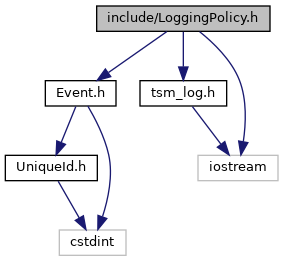
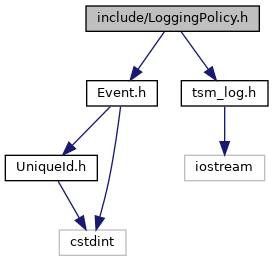
Deploy tinverse/tsm to github.com/tinverse/tsm.git:gh-pages

diff --git a/LoggingPolicy_8h_source.html b/LoggingPolicy_8h_source.html
@@ -73,57 +73,49 @@ $(function() {
 <a href="LoggingPolicy_8h.html">Go to the documentation of this file.</a><div class="fragment"><div class="line"><a name="l00001"></a><span class="lineno">    1</span>&#160;<span class="preprocessor">#include &quot;<a class="code" href="Event_8h.html">Event.h</a>&quot;</span></div>
 <div class="line"><a name="l00002"></a><span class="lineno">    2</span>&#160;<span class="preprocessor">#include &quot;<a class="code" href="tsm__log_8h.html">tsm_log.h</a>&quot;</span></div>
 <div class="line"><a name="l00003"></a><span class="lineno">    3</span>&#160; </div>
-<div class="line"><a name="l00004"></a><span class="lineno">    4</span>&#160;<span class="preprocessor">#include &lt;iostream&gt;</span></div>
-<div class="line"><a name="l00005"></a><span class="lineno">    5</span>&#160; </div>
-<div class="line"><a name="l00006"></a><span class="lineno">    6</span>&#160;<span class="keyword">namespace </span><a class="code" href="namespacetsm.html">tsm</a> {</div>
-<div class="line"><a name="l00014"></a><span class="lineno">   14</span>&#160; </div>
-<div class="line"><a name="l00015"></a><span class="lineno">   15</span>&#160;<span class="keyword">template</span>&lt;<span class="keyword">typename</span> StateType&gt;</div>
-<div class="line"><a name="l00016"></a><span class="lineno"><a class="line" href="structtsm_1_1LoggingPolicy.html">   16</a></span>&#160;<span class="keyword">struct </span><a class="code" href="structtsm_1_1LoggingPolicy.html">LoggingPolicy</a> : <span class="keyword">public</span> StateType</div>
-<div class="line"><a name="l00017"></a><span class="lineno">   17</span>&#160;{</div>
-<div class="line"><a name="l00018"></a><span class="lineno"><a class="line" href="structtsm_1_1LoggingPolicy.html#a77e605955bf90f8b9e7e7274e5062242">   18</a></span>&#160;    <span class="keywordtype">void</span> <a class="code" href="structtsm_1_1LoggingPolicy.html#a77e605955bf90f8b9e7e7274e5062242">onEntry</a>(<a class="code" href="structtsm_1_1Event.html">Event</a> <span class="keyword">const</span>&amp; e)<span class="keyword"> override</span></div>
-<div class="line"><a name="l00019"></a><span class="lineno">   19</span>&#160;<span class="keyword">    </span>{</div>
-<div class="line"><a name="l00020"></a><span class="lineno">   20</span>&#160;        <span class="keywordflow">if</span> (StateType::getCurrentState()) {</div>
-<div class="line"><a name="l00021"></a><span class="lineno">   21</span>&#160;            <a class="code" href="tsm__log_8h.html#a409b6edd4e93d758a7241a089c1786c4">LOG</a>(<a class="code" href="tsm__log_8h.html#aca1fd1d8935433e6ba2e3918214e07f9a748005382152808a72b1a9177d9dc806">INFO</a>) &lt;&lt; <span class="stringliteral">&quot;Entering State:&quot;</span> &lt;&lt; StateType::getCurrentState()-&gt;id</div>
-<div class="line"><a name="l00022"></a><span class="lineno">   22</span>&#160;                      &lt;&lt; <span class="stringliteral">&quot; on&quot;</span></div>
-<div class="line"><a name="l00023"></a><span class="lineno">   23</span>&#160;                         <span class="stringliteral">&quot; Event:&quot;</span></div>
-<div class="line"><a name="l00024"></a><span class="lineno">   24</span>&#160;                      &lt;&lt; e.<a class="code" href="structtsm_1_1Event.html#ac5eb92b825e4c068ffb2afaf57c67682">id</a>;</div>
-<div class="line"><a name="l00025"></a><span class="lineno">   25</span>&#160;        } <span class="keywordflow">else</span> {</div>
-<div class="line"><a name="l00026"></a><span class="lineno">   26</span>&#160;            <a class="code" href="tsm__log_8h.html#a409b6edd4e93d758a7241a089c1786c4">LOG</a>(<a class="code" href="tsm__log_8h.html#aca1fd1d8935433e6ba2e3918214e07f9a748005382152808a72b1a9177d9dc806">INFO</a>) &lt;&lt; <span class="stringliteral">&quot;Entering State:&quot;</span> &lt;&lt; StateType::getStartState()-&gt;id</div>
-<div class="line"><a name="l00027"></a><span class="lineno">   27</span>&#160;                      &lt;&lt; <span class="stringliteral">&quot; on&quot;</span></div>
-<div class="line"><a name="l00028"></a><span class="lineno">   28</span>&#160;                         <span class="stringliteral">&quot; Event:&quot;</span></div>
-<div class="line"><a name="l00029"></a><span class="lineno">   29</span>&#160;                      &lt;&lt; e.<a class="code" href="structtsm_1_1Event.html#ac5eb92b825e4c068ffb2afaf57c67682">id</a>;</div>
-<div class="line"><a name="l00030"></a><span class="lineno">   30</span>&#160;        }</div>
-<div class="line"><a name="l00031"></a><span class="lineno">   31</span>&#160;        StateType::onEntry(e);</div>
-<div class="line"><a name="l00032"></a><span class="lineno">   32</span>&#160;    }</div>
-<div class="line"><a name="l00033"></a><span class="lineno">   33</span>&#160; </div>
-<div class="line"><a name="l00034"></a><span class="lineno"><a class="line" href="structtsm_1_1LoggingPolicy.html#aeaac5fcfe2f0f9b83ad25930b48bcab9">   34</a></span>&#160;    <span class="keywordtype">void</span> <a class="code" href="structtsm_1_1LoggingPolicy.html#aeaac5fcfe2f0f9b83ad25930b48bcab9">handle</a>(<a class="code" href="structtsm_1_1Event.html">Event</a> <span class="keyword">const</span>&amp; nextEvent)<span class="keyword"> override</span></div>
-<div class="line"><a name="l00035"></a><span class="lineno">   35</span>&#160;<span class="keyword">    </span>{</div>
-<div class="line"><a name="l00036"></a><span class="lineno">   36</span>&#160;        <a class="code" href="tsm__log_8h.html#a409b6edd4e93d758a7241a089c1786c4">LOG</a>(<a class="code" href="tsm__log_8h.html#aca1fd1d8935433e6ba2e3918214e07f9a748005382152808a72b1a9177d9dc806">INFO</a>) &lt;&lt; <span class="stringliteral">&quot;Attempting transition from State: &quot;</span></div>
-<div class="line"><a name="l00037"></a><span class="lineno">   37</span>&#160;                  &lt;&lt; StateType::getCurrentState()-&gt;id</div>
-<div class="line"><a name="l00038"></a><span class="lineno">   38</span>&#160;                  &lt;&lt; <span class="stringliteral">&quot; on Event:&quot;</span> &lt;&lt; nextEvent.<a class="code" href="structtsm_1_1Event.html#ac5eb92b825e4c068ffb2afaf57c67682">id</a>;</div>
-<div class="line"><a name="l00039"></a><span class="lineno">   39</span>&#160;        StateType::handle(nextEvent);</div>
-<div class="line"><a name="l00040"></a><span class="lineno">   40</span>&#160;    }</div>
-<div class="line"><a name="l00041"></a><span class="lineno">   41</span>&#160; </div>
-<div class="line"><a name="l00042"></a><span class="lineno"><a class="line" href="structtsm_1_1LoggingPolicy.html#a927c8650c839080cad5babda9574ef04">   42</a></span>&#160;    <span class="keywordtype">void</span> <a class="code" href="structtsm_1_1LoggingPolicy.html#a927c8650c839080cad5babda9574ef04">onExit</a>(<a class="code" href="structtsm_1_1Event.html">Event</a> <span class="keyword">const</span>&amp; e)<span class="keyword"> override</span></div>
-<div class="line"><a name="l00043"></a><span class="lineno">   43</span>&#160;<span class="keyword">    </span>{</div>
-<div class="line"><a name="l00044"></a><span class="lineno">   44</span>&#160;        <a class="code" href="tsm__log_8h.html#a409b6edd4e93d758a7241a089c1786c4">LOG</a>(<a class="code" href="tsm__log_8h.html#aca1fd1d8935433e6ba2e3918214e07f9a748005382152808a72b1a9177d9dc806">INFO</a>) &lt;&lt; <span class="stringliteral">&quot;Exiting State:&quot;</span> &lt;&lt; StateType::getCurrentState()-&gt;id</div>
-<div class="line"><a name="l00045"></a><span class="lineno">   45</span>&#160;                  &lt;&lt; <span class="stringliteral">&quot; on&quot;</span></div>
-<div class="line"><a name="l00046"></a><span class="lineno">   46</span>&#160;                     <span class="stringliteral">&quot; Event:&quot;</span></div>
-<div class="line"><a name="l00047"></a><span class="lineno">   47</span>&#160;                  &lt;&lt; e.<a class="code" href="structtsm_1_1Event.html#ac5eb92b825e4c068ffb2afaf57c67682">id</a>;</div>
-<div class="line"><a name="l00048"></a><span class="lineno">   48</span>&#160;        StateType::onExit(e);</div>
-<div class="line"><a name="l00049"></a><span class="lineno">   49</span>&#160;    }</div>
-<div class="line"><a name="l00050"></a><span class="lineno">   50</span>&#160;};</div>
-<div class="line"><a name="l00051"></a><span class="lineno">   51</span>&#160;} <span class="comment">// namespace tsm</span></div>
+<div class="line"><a name="l00004"></a><span class="lineno">    4</span>&#160;<span class="keyword">namespace </span><a class="code" href="namespacetsm.html">tsm</a> {</div>
+<div class="line"><a name="l00012"></a><span class="lineno">   12</span>&#160; </div>
+<div class="line"><a name="l00013"></a><span class="lineno">   13</span>&#160;<span class="keyword">template</span>&lt;<span class="keyword">typename</span> StateType&gt;</div>
+<div class="line"><a name="l00014"></a><span class="lineno"><a class="line" href="structtsm_1_1LoggingPolicy.html">   14</a></span>&#160;<span class="keyword">struct </span><a class="code" href="structtsm_1_1LoggingPolicy.html">LoggingPolicy</a> : <span class="keyword">public</span> StateType</div>
+<div class="line"><a name="l00015"></a><span class="lineno">   15</span>&#160;{</div>
+<div class="line"><a name="l00016"></a><span class="lineno"><a class="line" href="structtsm_1_1LoggingPolicy.html#a77e605955bf90f8b9e7e7274e5062242">   16</a></span>&#160;    <span class="keywordtype">void</span> <a class="code" href="structtsm_1_1LoggingPolicy.html#a77e605955bf90f8b9e7e7274e5062242">onEntry</a>(<a class="code" href="structtsm_1_1Event.html">Event</a> <span class="keyword">const</span>&amp; e)<span class="keyword"> override</span></div>
+<div class="line"><a name="l00017"></a><span class="lineno">   17</span>&#160;<span class="keyword">    </span>{</div>
+<div class="line"><a name="l00018"></a><span class="lineno">   18</span>&#160;        <span class="keywordflow">if</span> (StateType::getCurrentState()) {</div>
+<div class="line"><a name="l00019"></a><span class="lineno">   19</span>&#160;            <a class="code" href="tsm__log_8h.html#a409b6edd4e93d758a7241a089c1786c4">LOG</a>(<a class="code" href="tsm__log_8h.html#aca1fd1d8935433e6ba2e3918214e07f9a748005382152808a72b1a9177d9dc806">INFO</a>) &lt;&lt; <span class="stringliteral">&quot;Entering State:&quot;</span> &lt;&lt; StateType::getCurrentState()-&gt;id</div>
+<div class="line"><a name="l00020"></a><span class="lineno">   20</span>&#160;                      &lt;&lt; <span class="stringliteral">&quot; on Event:&quot;</span> &lt;&lt; e.<a class="code" href="structtsm_1_1Event.html#ac5eb92b825e4c068ffb2afaf57c67682">id</a>;</div>
+<div class="line"><a name="l00021"></a><span class="lineno">   21</span>&#160;        } <span class="keywordflow">else</span> {</div>
+<div class="line"><a name="l00022"></a><span class="lineno">   22</span>&#160;            <a class="code" href="tsm__log_8h.html#a409b6edd4e93d758a7241a089c1786c4">LOG</a>(<a class="code" href="tsm__log_8h.html#aca1fd1d8935433e6ba2e3918214e07f9a748005382152808a72b1a9177d9dc806">INFO</a>) &lt;&lt; <span class="stringliteral">&quot;Entering State:&quot;</span> &lt;&lt; StateType::getStartState()-&gt;id</div>
+<div class="line"><a name="l00023"></a><span class="lineno">   23</span>&#160;                      &lt;&lt; <span class="stringliteral">&quot; on Event:&quot;</span> &lt;&lt; e.<a class="code" href="structtsm_1_1Event.html#ac5eb92b825e4c068ffb2afaf57c67682">id</a>;</div>
+<div class="line"><a name="l00024"></a><span class="lineno">   24</span>&#160;        }</div>
+<div class="line"><a name="l00025"></a><span class="lineno">   25</span>&#160;        StateType::onEntry(e);</div>
+<div class="line"><a name="l00026"></a><span class="lineno">   26</span>&#160;    }</div>
+<div class="line"><a name="l00027"></a><span class="lineno">   27</span>&#160; </div>
+<div class="line"><a name="l00028"></a><span class="lineno"><a class="line" href="structtsm_1_1LoggingPolicy.html#aeaac5fcfe2f0f9b83ad25930b48bcab9">   28</a></span>&#160;    <span class="keywordtype">void</span> <a class="code" href="structtsm_1_1LoggingPolicy.html#aeaac5fcfe2f0f9b83ad25930b48bcab9">handle</a>(<a class="code" href="structtsm_1_1Event.html">Event</a> <span class="keyword">const</span>&amp; nextEvent)<span class="keyword"> override</span></div>
+<div class="line"><a name="l00029"></a><span class="lineno">   29</span>&#160;<span class="keyword">    </span>{</div>
+<div class="line"><a name="l00030"></a><span class="lineno">   30</span>&#160;        <a class="code" href="tsm__log_8h.html#a409b6edd4e93d758a7241a089c1786c4">LOG</a>(<a class="code" href="tsm__log_8h.html#aca1fd1d8935433e6ba2e3918214e07f9a748005382152808a72b1a9177d9dc806">INFO</a>) &lt;&lt; <span class="stringliteral">&quot;Attempting transition from State: &quot;</span></div>
+<div class="line"><a name="l00031"></a><span class="lineno">   31</span>&#160;                  &lt;&lt; StateType::getCurrentState()-&gt;id</div>
+<div class="line"><a name="l00032"></a><span class="lineno">   32</span>&#160;                  &lt;&lt; <span class="stringliteral">&quot; on Event:&quot;</span> &lt;&lt; nextEvent.<a class="code" href="structtsm_1_1Event.html#ac5eb92b825e4c068ffb2afaf57c67682">id</a>;</div>
+<div class="line"><a name="l00033"></a><span class="lineno">   33</span>&#160;        StateType::handle(nextEvent);</div>
+<div class="line"><a name="l00034"></a><span class="lineno">   34</span>&#160;    }</div>
+<div class="line"><a name="l00035"></a><span class="lineno">   35</span>&#160; </div>
+<div class="line"><a name="l00036"></a><span class="lineno"><a class="line" href="structtsm_1_1LoggingPolicy.html#a927c8650c839080cad5babda9574ef04">   36</a></span>&#160;    <span class="keywordtype">void</span> <a class="code" href="structtsm_1_1LoggingPolicy.html#a927c8650c839080cad5babda9574ef04">onExit</a>(<a class="code" href="structtsm_1_1Event.html">Event</a> <span class="keyword">const</span>&amp; e)<span class="keyword"> override</span></div>
+<div class="line"><a name="l00037"></a><span class="lineno">   37</span>&#160;<span class="keyword">    </span>{</div>
+<div class="line"><a name="l00038"></a><span class="lineno">   38</span>&#160;        <a class="code" href="tsm__log_8h.html#a409b6edd4e93d758a7241a089c1786c4">LOG</a>(<a class="code" href="tsm__log_8h.html#aca1fd1d8935433e6ba2e3918214e07f9a748005382152808a72b1a9177d9dc806">INFO</a>) &lt;&lt; <span class="stringliteral">&quot;Exiting State:&quot;</span> &lt;&lt; StateType::getCurrentState()-&gt;id</div>
+<div class="line"><a name="l00039"></a><span class="lineno">   39</span>&#160;                  &lt;&lt; <span class="stringliteral">&quot; on Event:&quot;</span> &lt;&lt; e.<a class="code" href="structtsm_1_1Event.html#ac5eb92b825e4c068ffb2afaf57c67682">id</a>;</div>
+<div class="line"><a name="l00040"></a><span class="lineno">   40</span>&#160;        StateType::onExit(e);</div>
+<div class="line"><a name="l00041"></a><span class="lineno">   41</span>&#160;    }</div>
+<div class="line"><a name="l00042"></a><span class="lineno">   42</span>&#160;};</div>
+<div class="line"><a name="l00043"></a><span class="lineno">   43</span>&#160;} <span class="comment">// namespace tsm</span></div>
 </div><!-- fragment --></div><!-- contents -->
-<div class="ttc" id="astructtsm_1_1LoggingPolicy_html"><div class="ttname"><a href="structtsm_1_1LoggingPolicy.html">tsm::LoggingPolicy</a></div><div class="ttdef"><b>Definition:</b> LoggingPolicy.h:17</div></div>
-<div class="ttc" id="astructtsm_1_1LoggingPolicy_html_aeaac5fcfe2f0f9b83ad25930b48bcab9"><div class="ttname"><a href="structtsm_1_1LoggingPolicy.html#aeaac5fcfe2f0f9b83ad25930b48bcab9">tsm::LoggingPolicy::handle</a></div><div class="ttdeci">void handle(Event const &amp;nextEvent) override</div><div class="ttdef"><b>Definition:</b> LoggingPolicy.h:34</div></div>
+<div class="ttc" id="astructtsm_1_1LoggingPolicy_html"><div class="ttname"><a href="structtsm_1_1LoggingPolicy.html">tsm::LoggingPolicy</a></div><div class="ttdef"><b>Definition:</b> LoggingPolicy.h:15</div></div>
+<div class="ttc" id="astructtsm_1_1LoggingPolicy_html_aeaac5fcfe2f0f9b83ad25930b48bcab9"><div class="ttname"><a href="structtsm_1_1LoggingPolicy.html#aeaac5fcfe2f0f9b83ad25930b48bcab9">tsm::LoggingPolicy::handle</a></div><div class="ttdeci">void handle(Event const &amp;nextEvent) override</div><div class="ttdef"><b>Definition:</b> LoggingPolicy.h:28</div></div>
 <div class="ttc" id="atsm__log_8h_html"><div class="ttname"><a href="tsm__log_8h.html">tsm_log.h</a></div></div>
-<div class="ttc" id="astructtsm_1_1LoggingPolicy_html_a927c8650c839080cad5babda9574ef04"><div class="ttname"><a href="structtsm_1_1LoggingPolicy.html#a927c8650c839080cad5babda9574ef04">tsm::LoggingPolicy::onExit</a></div><div class="ttdeci">void onExit(Event const &amp;e) override</div><div class="ttdef"><b>Definition:</b> LoggingPolicy.h:42</div></div>
+<div class="ttc" id="astructtsm_1_1LoggingPolicy_html_a927c8650c839080cad5babda9574ef04"><div class="ttname"><a href="structtsm_1_1LoggingPolicy.html#a927c8650c839080cad5babda9574ef04">tsm::LoggingPolicy::onExit</a></div><div class="ttdeci">void onExit(Event const &amp;e) override</div><div class="ttdef"><b>Definition:</b> LoggingPolicy.h:36</div></div>
 <div class="ttc" id="atsm__log_8h_html_a409b6edd4e93d758a7241a089c1786c4"><div class="ttname"><a href="tsm__log_8h.html#a409b6edd4e93d758a7241a089c1786c4">LOG</a></div><div class="ttdeci">#define LOG(Level)</div><div class="ttdef"><b>Definition:</b> tsm_log.h:29</div></div>
 <div class="ttc" id="astructtsm_1_1Event_html"><div class="ttname"><a href="structtsm_1_1Event.html">tsm::Event</a></div><div class="ttdef"><b>Definition:</b> Event.h:8</div></div>
 <div class="ttc" id="aEvent_8h_html"><div class="ttname"><a href="Event_8h.html">Event.h</a></div></div>
 <div class="ttc" id="anamespacetsm_html"><div class="ttname"><a href="namespacetsm.html">tsm</a></div><div class="ttdef"><b>Definition:</b> AsyncExecutionPolicy.h:13</div></div>
-<div class="ttc" id="astructtsm_1_1LoggingPolicy_html_a77e605955bf90f8b9e7e7274e5062242"><div class="ttname"><a href="structtsm_1_1LoggingPolicy.html#a77e605955bf90f8b9e7e7274e5062242">tsm::LoggingPolicy::onEntry</a></div><div class="ttdeci">void onEntry(Event const &amp;e) override</div><div class="ttdef"><b>Definition:</b> LoggingPolicy.h:18</div></div>
+<div class="ttc" id="astructtsm_1_1LoggingPolicy_html_a77e605955bf90f8b9e7e7274e5062242"><div class="ttname"><a href="structtsm_1_1LoggingPolicy.html#a77e605955bf90f8b9e7e7274e5062242">tsm::LoggingPolicy::onEntry</a></div><div class="ttdeci">void onEntry(Event const &amp;e) override</div><div class="ttdef"><b>Definition:</b> LoggingPolicy.h:16</div></div>
 <div class="ttc" id="astructtsm_1_1Event_html_ac5eb92b825e4c068ffb2afaf57c67682"><div class="ttname"><a href="structtsm_1_1Event.html#ac5eb92b825e4c068ffb2afaf57c67682">tsm::Event::id</a></div><div class="ttdeci">id_t id</div><div class="ttdef"><b>Definition:</b> Event.h:17</div></div>
 <div class="ttc" id="atsm__log_8h_html_aca1fd1d8935433e6ba2e3918214e07f9a748005382152808a72b1a9177d9dc806"><div class="ttname"><a href="tsm__log_8h.html#aca1fd1d8935433e6ba2e3918214e07f9a748005382152808a72b1a9177d9dc806">INFO</a></div><div class="ttdeci">@ INFO</div><div class="ttdef"><b>Definition:</b> tsm_log.h:6</div></div>
 <!-- start footer part -->

diff --git a/Switch_8cpp.html b/Switch_8cpp.html
@@ -85,22 +85,21 @@ Include dependency graph for Switch.cpp:</div>
 <div class="dyncontent">
 <div class="center"><img src="Switch_8cpp__incl.png" border="0" usemap="#atest_2Switch_8cpp" alt=""/></div>
 <map name="test_2Switch_8cpp" id="atest_2Switch_8cpp">
-<area shape="rect" title=" " alt="" coords="745,5,867,32"/>
-<area shape="rect" href="AsyncExecutionPolicy_8h.html" title=" " alt="" coords="719,155,893,181"/>
-<area shape="rect" href="Hsm_8h.html" title=" " alt="" coords="74,229,138,256"/>
-<area shape="rect" href="LoggingPolicy_8h.html" title=" " alt="" coords="773,379,895,405"/>
-<area shape="rect" href="tsm_8h.html" title=" " alt="" coords="426,80,485,107"/>
-<area shape="rect" title=" " alt="" coords="1020,80,1152,107"/>
-<area shape="rect" href="Event_8h.html" title=" " alt="" coords="393,453,464,480"/>
-<area shape="rect" href="EventQueue_8h.html" title=" " alt="" coords="784,229,897,256"/>
-<area shape="rect" title=" " alt="" coords="645,229,709,256"/>
-<area shape="rect" href="tsm__log_8h.html" title=" " alt="" coords="696,453,783,480"/>
-<area shape="rect" title=" " alt="" coords="739,528,819,555"/>
-<area shape="rect" href="State_8h.html" title=" " alt="" coords="5,379,73,405"/>
-<area shape="rect" href="Transition_8h.html" title=" " alt="" coords="139,304,236,331"/>
-<area shape="rect" href="OrthogonalHsm_8h.html" title=" " alt="" coords="181,155,317,181"/>
-<area shape="rect" href="SingleThreadedExecutionPolicy_8h.html" title=" " alt="" coords="311,304,546,331"/>
-<area shape="rect" href="TimedExecutionPolicy_8h.html" title=" " alt="" coords="520,155,695,181"/>
+<area shape="rect" title=" " alt="" coords="954,5,1075,32"/>
+<area shape="rect" href="AsyncExecutionPolicy_8h.html" title=" " alt="" coords="928,155,1101,181"/>
+<area shape="rect" href="Hsm_8h.html" title=" " alt="" coords="468,229,532,256"/>
+<area shape="rect" href="LoggingPolicy_8h.html" title=" " alt="" coords="1032,379,1155,405"/>
+<area shape="rect" href="tsm_8h.html" title=" " alt="" coords="585,80,644,107"/>
+<area shape="rect" title=" " alt="" coords="1177,80,1309,107"/>
+<area shape="rect" href="Event_8h.html" title=" " alt="" coords="466,453,537,480"/>
+<area shape="rect" href="EventQueue_8h.html" title=" " alt="" coords="755,229,869,256"/>
+<area shape="rect" title=" " alt="" coords="893,229,957,256"/>
+<area shape="rect" href="tsm__log_8h.html" title=" " alt="" coords="1050,453,1137,480"/>
+<area shape="rect" href="State_8h.html" title=" " alt="" coords="554,379,622,405"/>
+<area shape="rect" href="Transition_8h.html" title=" " alt="" coords="366,304,463,331"/>
+<area shape="rect" href="OrthogonalHsm_8h.html" title=" " alt="" coords="416,155,552,181"/>
+<area shape="rect" href="SingleThreadedExecutionPolicy_8h.html" title=" " alt="" coords="5,304,240,331"/>
+<area shape="rect" href="TimedExecutionPolicy_8h.html" title=" " alt="" coords="729,155,903,181"/>
 </map>
 </div>
 </div><table class="memberdecls">

diff --git a/LoggingPolicy_8h.html b/LoggingPolicy_8h.html
@@ -75,18 +75,17 @@ $(function() {
 <div class="contents">
 <div class="textblock"><code>#include &quot;<a class="el" href="Event_8h_source.html">Event.h</a>&quot;</code><br />
 <code>#include &quot;<a class="el" href="tsm__log_8h_source.html">tsm_log.h</a>&quot;</code><br />
-<code>#include &lt;iostream&gt;</code><br />
 </div><div class="textblock"><div class="dynheader">
 Include dependency graph for LoggingPolicy.h:</div>
 <div class="dyncontent">
 <div class="center"><img src="LoggingPolicy_8h__incl.png" border="0" usemap="#ainclude_2LoggingPolicy_8h" alt=""/></div>
 <map name="include_2LoggingPolicy_8h" id="ainclude_2LoggingPolicy_8h">
-<area shape="rect" title=" " alt="" coords="97,5,270,32"/>
-<area shape="rect" href="Event_8h.html" title=" " alt="" coords="45,80,116,107"/>
-<area shape="rect" href="tsm__log_8h.html" title=" " alt="" coords="140,80,227,107"/>
-<area shape="rect" title=" " alt="" coords="198,155,278,181"/>
+<area shape="rect" title=" " alt="" coords="86,5,259,32"/>
+<area shape="rect" href="Event_8h.html" title=" " alt="" coords="87,80,157,107"/>
+<area shape="rect" href="tsm__log_8h.html" title=" " alt="" coords="181,80,268,107"/>
 <area shape="rect" href="UniqueId_8h.html" title=" " alt="" coords="5,155,97,181"/>
 <area shape="rect" title=" " alt="" coords="59,229,126,256"/>
+<area shape="rect" title=" " alt="" coords="185,155,265,181"/>
 </map>
 </div>
 </div><div class="textblock"><div class="dynheader">
